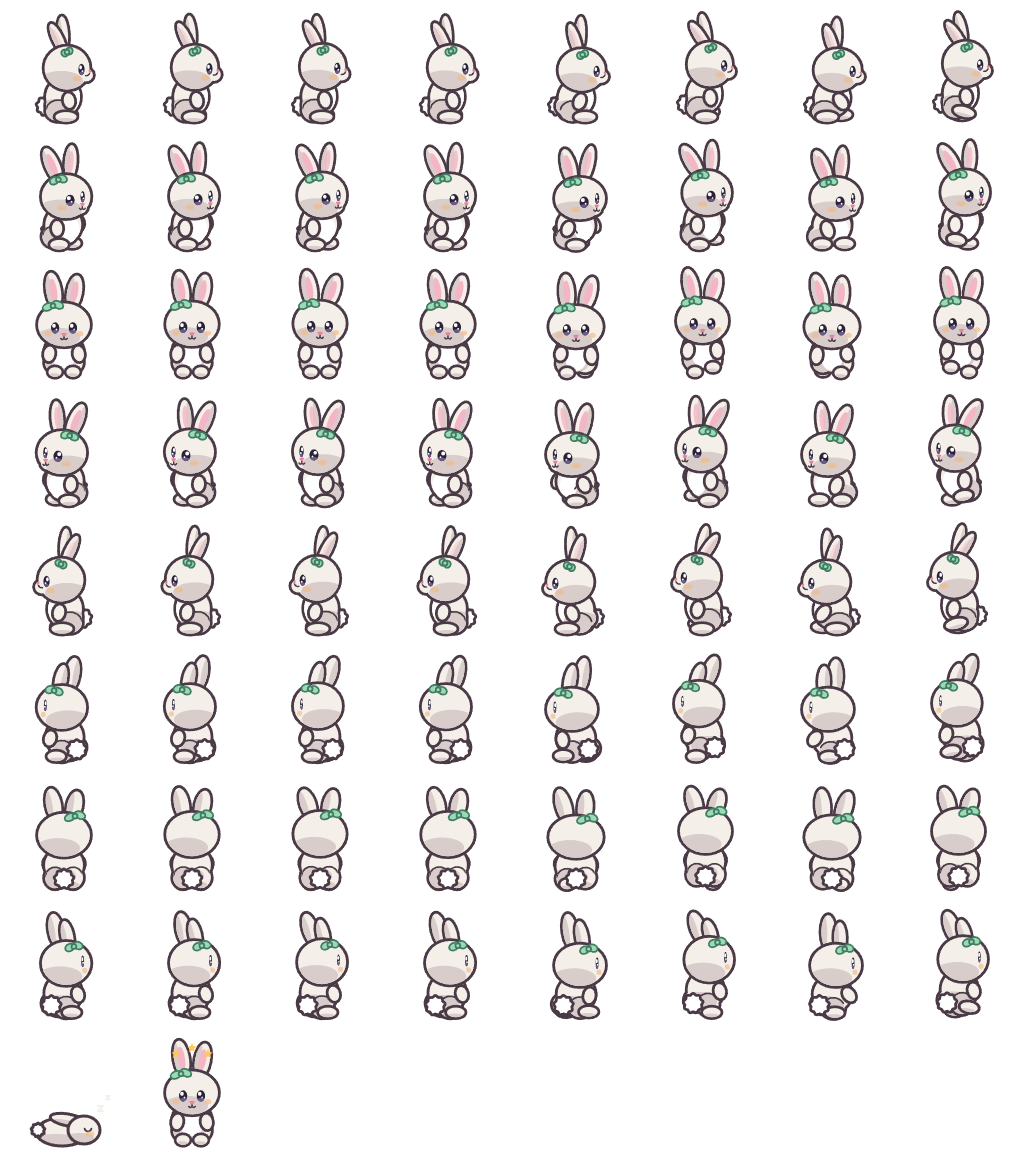
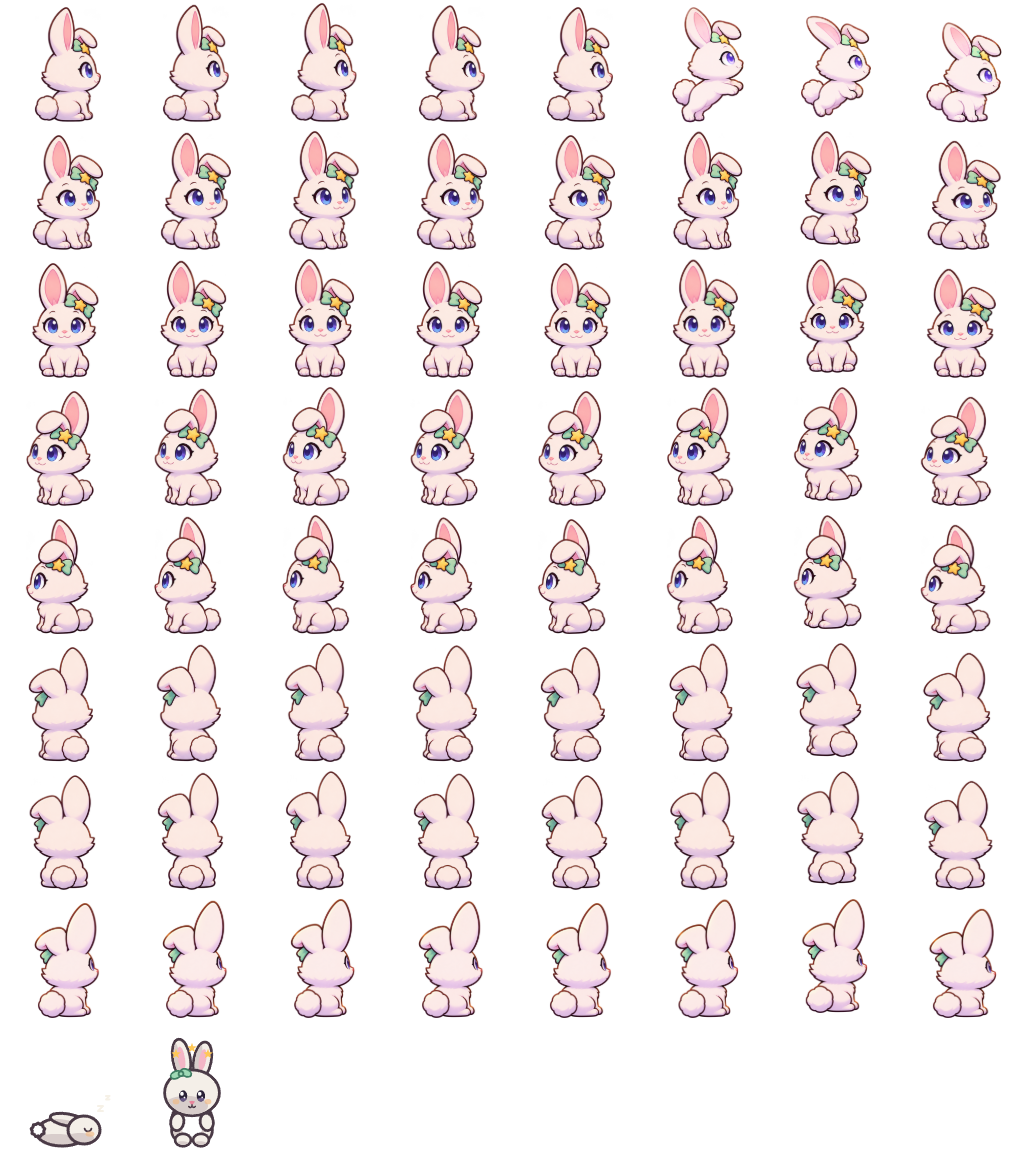
토리 ChatGPT 그림 적용: 받은 90° 걷기 4장(f01 = 대기 그림, 20px 깡충) + 정지 8방향 + 초상(대기 45°). 친구 시트 가져오기 src/art/friendSheet.ts(512 팩을 한 배율로 128 칸, 귀 끝~발끝 115px = 머리 폭이 루미와 같음), 아직 없는 걷기 방향은 임시 깡충
Claude-Session: https://claude.ai/code/session_01HrPbr5mJU6i3pPUacduwos

diff --git a/src/art/friendSheet.ts b/src/art/friendSheet.ts
@@ -1,0 +1,153 @@
+// 친구 등불지기(토리·도토) 8방향 시트를 ChatGPT 팩 그림으로 묶는다 (2026-11-18 라이언: 받은 토리 90° 걷기를 바로 적용).
+// lumi-8dir과 같은 배치(줄 = 방향 e·se·s·sw·w·nw·n·ne + 연출 줄, 칸 = 대기 4 + 걷기 4, 128 칸·발끝 FEET_Y)라
+// Lightkeeper·애니메이션 이름(tori-idle-<방향> 등)은 그대로 쓴다.
+//  - 팩 규격(브리프·의뢰서): 512×512 투명, 귀 끝 ~ 발끝 = 48 ~ 496줄, 한 팩 안에서 같은 축척.
+//    그래서 칸에 놓을 때 장마다 다시 재지 않고 캔버스 좌표를 그대로 한 배율로 옮긴다(걷기 프레임의 들썩임이 그대로 살도록).
+//  - 대기: 방향마다 한 장 + 숨쉬기 3칸(루미와 같은 방식).
+//  - 걷기: 그 방향 걷기 팩 4장(f01 = 대기 그림). 아직 안 온 방향은 대기 그림으로 만든 임시 깡충(제안) — 팩이 오면 저절로 바뀐다.
+//  - 연출 줄(잠듦·기절): 아직 팩 그림이 없어 임시 코드 그림(keeperSprites)을 그대로.
+//  - 대기 팩이 한 장이라도 없으면 null → 임시 코드 그림 시트 전체를 쓴다(도토는 팩이 올 때까지 이쪽).
+import { DIRS, type Dir } from '../systems/facing';
+import { buildKeeperSheet, type KeeperSpriteId } from './keeperSprites';
+import { CELL, FEET_Y, LUMI_COLS, packDir } from './lumiSheet';
+
+interface FriendPack {
+  /** 대기 그림 경로 (dev 서버가 프로젝트 폴더를 그대로 서빙) */
+  idle: (deg: string, name: string) => string;
+  /** 걷기 그림 경로, n = 1~4 */
+  walk: (deg: string, name: string, n: number) => string;
+  /** 팩 캔버스에서 발끝이 닿는 줄 */
+  feetY: number;
+  /** 팩 캔버스에서 귀 끝 ~ 발끝 높이 */
+  bodyH: number;
+  /**
+   * 칸(128) 안에서의 귀 끝 ~ 발끝 높이(px). 루미는 약 101px.
+   * 토리 115 = 머리 크기를 루미와 맞추고 귀가 루미 키의 약 1.14배(브리프 '귀 끝까지는 루미의 약 1.2배', 2026-11-17 측정의 ×1.22 제안)
+   */
+  heightPx: number;
+}
+
+/** 각도 → 팩의 방향 이름 (파일 이름 규칙) */
+const NAMES: Record<number, string> = {
+  0: 'front',
+  45: 'front_right',
+  90: 'right',
+  135: 'back_right',
+  180: 'back',
+  225: 'back_left',
+  270: 'left',
+  315: 'front_left',
+};
+
+const TORI_DIR = '/reference/Tori_8_Direction_Pack';
+export const FRIEND_PACKS: Partial<Record<KeeperSpriteId, FriendPack>> = {
+  tori: {
+    idle: (deg, name) => `${TORI_DIR}/Tori_Idle_8D_Pack/tori_idle_${deg}_${name}.png`,
+    walk: (deg, name, n) => `${TORI_DIR}/Tori_Walk_8D_4Frames_Pack/${deg}_${name}/tori_walk_${deg}_${name}_f0${n}.png`,
+    feetY: 496,
+    bodyH: 448,
+    heightPx: 115,
+  },
+};
+
+/** 칸에 놓는 법: 발끝 기준 늘이기·들기 (단위 = 칸 px) */
+interface Pose {
+  sx?: number;
+  sy?: number;
+  lift?: number;
+}
+
+/** 숨쉬기 4칸 (루미 breathe와 같은 값) */
+const BREATHE: Pose[] = [{}, { sx: 0.995, sy: 1.02 }, { sx: 0.99, sy: 1.035 }, { sx: 0.995, sy: 1.015 }];
+/** 걷기 팩이 아직 없는 방향의 임시 깡충 (제안): 모음 → 박차기 → 공중 → 착지. 귀 끝이 칸(위 7px 여유) 밖으로 나가지 않는 만큼만 늘이고 든다 */
+const HOP: Pose[] = [{}, { sx: 0.98, sy: 1.03 }, { sx: 1.01, sy: 0.99, lift: 5 }, { sx: 1.04, sy: 0.95 }];
+
+function loadImage(url: string): Promise<HTMLImageElement | null> {
+  return new Promise((resolve) => {
+    const img = new Image();
+    img.onload = () => resolve(img);
+    img.onerror = () => resolve(null);
+    img.src = url;
+  });
+}
+
+/** 발 가운데 x: 불투명 범위 아래 15% 줄의 평균 (cutout.feetCenterX와 같은 생각) */
+function feetX(img: HTMLImageElement): number {
+  const c = document.createElement('canvas');
+  c.width = img.naturalWidth;
+  c.height = img.naturalHeight;
+  const g = c.getContext('2d', { willReadFrequently: true }) as CanvasRenderingContext2D;
+  g.drawImage(img, 0, 0);
+  const { data, width, height } = g.getImageData(0, 0, c.width, c.height);
+  let top = -1;
+  let bottom = -1;
+  for (let y = 0; y < height && top < 0; y++) for (let x = 0; x < width; x++) if (data[(y * width + x) * 4 + 3] > 40) { top = y; break; }
+  for (let y = height - 1; y >= 0 && bottom < 0; y--) for (let x = 0; x < width; x++) if (data[(y * width + x) * 4 + 3] > 40) { bottom = y; break; }
+  if (top < 0) return width / 2;
+  let sum = 0;
+  let n = 0;
+  for (let y = Math.floor(bottom - (bottom - top) * 0.15); y <= bottom; y++) {
+    for (let x = 0; x < width; x++) {
+      if (data[(y * width + x) * 4 + 3] > 40) {
+        sum += x;
+        n++;
+      }
+    }
+  }
+  return n ? sum / n : width / 2;
+}
+
+/** 팩 그림 한 장을 칸(col,row)에: 팩 좌표 (fx, feetY)가 칸의 (가운데, FEET_Y)에 오게, 배율 s, 발끝 기준 pose */
+function place(g: CanvasRenderingContext2D, img: HTMLImageElement, col: number, row: number, fx: number, pack: FriendPack, s: number, p: Pose = {}): void {
+  g.save();
+  g.beginPath();
+  g.rect(col * CELL, row * CELL, CELL, CELL);
+  g.clip();
+  g.translate(col * CELL + CELL / 2, row * CELL + FEET_Y - (p.lift ?? 0));
+  g.scale(p.sx ?? 1, p.sy ?? 1);
+  g.drawImage(img, -fx * s, -pack.feetY * s, img.naturalWidth * s, img.naturalHeight * s);
+  g.restore();
+}
+
+/** 2배 해상도(128 칸) 시트. 대기 팩이 다 없으면 null */
+export async function composeFriend(id: KeeperSpriteId): Promise<HTMLCanvasElement | null> {
+  const pack = FRIEND_PACKS[id];
+  if (!pack) return null;
+  const s = pack.heightPx / pack.bodyH;
+  const idle = new Map<Dir, HTMLImageElement>();
+  const walk = new Map<Dir, HTMLImageElement[]>();
+  for (const [deg, name] of Object.entries(NAMES)) {
+    const a = deg.padStart(3, '0');
+    const dir = packDir(Number(deg));
+    const img = await loadImage(pack.idle(a, name));
+    if (!img) return null;
+    idle.set(dir, img);
+    const frames = await Promise.all([1, 2, 3, 4].map((n) => loadImage(pack.walk(a, name, n))));
+    if (frames.every((f): f is HTMLImageElement => f !== null)) walk.set(dir, frames as HTMLImageElement[]);
+  }
+
+  // 연출 줄은 임시 코드 그림 시트에서 그대로 옮긴다
+  const code = await buildKeeperSheet(id);
+  const c = document.createElement('canvas');
+  c.width = code.width;
+  c.height = code.height;
+  const g = c.getContext('2d') as CanvasRenderingContext2D;
+  g.imageSmoothingEnabled = true;
+  g.imageSmoothingQuality = 'high';
+  g.drawImage(code, 0, DIRS.length * CELL, code.width, CELL, 0, DIRS.length * CELL, code.width, CELL);
+
+  for (const [row, d] of DIRS.entries()) {
+    const img = idle.get(d) as HTMLImageElement;
+    // 한 방향 안의 대기·걷기는 같은 발 가운데(대기 그림 기준)에 둔다 → 걷기 프레임의 앞뒤 움직임이 그대로 보인다
+    const fx = feetX(img);
+    for (let i = 0; i < LUMI_COLS.idle; i++) place(g, img, i, row, fx, pack, s, BREATHE[i % BREATHE.length]);
+    const frames = walk.get(d);
+    for (let i = 0; i < LUMI_COLS.walk; i++) {
+      const col = LUMI_COLS.idle + i;
+      if (frames) place(g, frames[i % frames.length], col, row, fx, pack, s);
+      else place(g, img, col, row, fx, pack, s, HOP[i % HOP.length]);
+    }
+  }
+  return c;
+}
+

diff --git a/src/art/registry.ts b/src/art/registry.ts
@@ -28,6 +28,7 @@ import { DIRS } from '../systems/facing';
 import { CREATURES, creatureAnims, creatureKey, drawCreature, type CreatureId } from './creatures';
 import { DARK_ORB, ITEM_ICON, ITEM_IDS, ITEM_LABEL, drawDarkOrb, drawItemIcon, itemKey } from './items';
 import { buildKeeperSheet, drawKeeperSpriteFrame, keeperAnims } from './keeperSprites';
+import { FRIEND_PACKS, composeFriend } from './friendSheet';
 
 export type AssetCategory = 'characters' | 'enemies' | 'objects' | 'effects' | 'backgrounds' | 'items';
 
@@ -166,17 +167,18 @@ const characters: SheetDef[] = [
     buildRes: 2,
   },
   // 2026-11-13 컨셉 시연판: 토리·도토 플레이용 8방향 시트 (임시 코드 그림, lumi-8dir과 같은 줄·칸·애니메이션 이름 규칙)
+  // 2026-11-18: ChatGPT 팩이 있으면 그 그림으로(src/art/friendSheet.ts — 토리 대기 8방향 + 받은 방향의 걷기), 없으면 임시 코드 그림
   ...(['tori', 'doto'] as const).map(
     (id): SheetDef => ({
       key: `${id}-8dir`,
       category: 'characters',
-      label: `${GameData.characters.find((c) => c.id === id)?.name ?? id} 8방향 (임시 그림: 정지·걷기 + 넉아웃·기절)`,
+      label: `${GameData.characters.find((c) => c.id === id)?.name ?? id} 8방향 (${FRIEND_PACKS[id] ? 'ChatGPT 팩: 정지 8방향 + 받은 방향의 걷기, 나머지 걷기·넉아웃·기절은 임시' : '임시 그림: 정지·걷기 + 넉아웃·기절'})`,
       frameWidth: 64,
       frameHeight: 64,
       frames: LUMI_COLUMNS * LUMI_ROWS,
       draw: (ctx, f) => drawKeeperSpriteFrame(ctx, id, f),
       anims: keeperAnims(id),
-      build: () => buildKeeperSheet(id),
+      build: async () => (await composeFriend(id)) ?? buildKeeperSheet(id),
       buildRes: 2,
     }),
   ),

diff --git a/CLAUDE.md b/CLAUDE.md
@@ -117,7 +117,7 @@ UI는 한국어, 코드 식별자는 영어 id.
   - 상징: 루미 = 별(보내는 빛), 토리 = 달(비추는 빛, 달토끼), 도토 = 씨앗(심는 빛).
   - 공통 표식: 셋 다 작은 호박빛 별 조각을 단다. 루미는 스카프의 별, 토리는 민트 리본 매듭의 별, 도토는 황금 도토리에 박힌 별이다.
 - **성격 (캐릭터 브리프, 제안)**: 루미는 조용하지만 용감하게 앞장선다. 토리는 겁이 많지만 날쌔고 다정하다. 도토는 느긋하고 꼼꼼한 마을 살림꾼이다.
-- **외형 기준**: `hand-offs/chatgpt-characters-*/`의 브리프와 ChatGPT 컨셉 그림(`reference/Tori_8_Direction_Pack/`·`reference/Doto_8_Direction_Pack/`의 `*_Concept_Introduce`)이다. **토리는 좌우가 다르다**: 접힌 귀와 민트 리본 = 토리 자신의 왼쪽 귀(정면 그림에서 보는 사람의 오른쪽) → 친구 스프라이트를 가져올 때 토리의 왼쪽 방향은 오른쪽 그림을 뒤집지 않고 팩의 왼쪽 그림을 쓴다(2026-11-17). 토리 대기 팩은 512×512·발끝 97%이고 캔버스 안에서 루미보다 작게 그려져 게임에서 ×1.22로 보인다(제안). **친구 걷기는 방향마다 4장, 첫 장 = 그 방향의 대기 그림 그대로, 4장이 한 바퀴로 이어진다(2026-11-18 라이언)** — 토리는 제자리 작은 깡충 뛰기(제안, 의뢰서 `order-tori-walk.md`). 도토 대기 8방향은 `order-doto-idle.md`(기본 그림 = `doto_concept.png`, 루미·토리와 같은 512 형식, 한 축척·몸 가운데·뒤집기 허용). 135°는 2026-11-18 다시 그린 그림(1254로 옴)을 이 규격으로 맞춰 넣었다 — ChatGPT 그림이 다른 크기로 오면 Claude가 귀 끝~발끝을 48~495줄·가로 가운데로 맞춘다(받은 원본은 `Tori_Idle_8D_Originals/`).
+- **외형 기준**: `hand-offs/chatgpt-characters-*/`의 브리프와 ChatGPT 컨셉 그림(`reference/Tori_8_Direction_Pack/`·`reference/Doto_8_Direction_Pack/`의 `*_Concept_Introduce`)이다. **토리는 좌우가 다르다**: 접힌 귀와 민트 리본 = 토리 자신의 왼쪽 귀(정면 그림에서 보는 사람의 오른쪽) → 친구 스프라이트를 가져올 때 토리의 왼쪽 방향은 오른쪽 그림을 뒤집지 않고 팩의 왼쪽 그림을 쓴다(2026-11-17). 토리 대기 팩은 512×512·발끝 97%이고 캔버스 안에서 루미보다 작게 그려져, 게임에서는 귀 끝~발끝 115px로 놓는다(루미 약 101px — 머리 폭이 루미와 같고 귀까지 1.14배, 2026-11-18 적용, 제안 — `src/art/friendSheet.ts heightPx`). **친구 걷기는 방향마다 4장, 첫 장 = 그 방향의 대기 그림 그대로, 4장이 한 바퀴로 이어진다(2026-11-18 라이언)** — 토리는 제자리 작은 깡충 뛰기(제안, 의뢰서 `order-tori-walk.md`). 도토 대기 8방향은 `order-doto-idle.md`(기본 그림 = `doto_concept.png`, 루미·토리와 같은 512 형식, 한 축척·몸 가운데·뒤집기 허용). 135°는 2026-11-18 다시 그린 그림(1254로 옴)을 이 규격으로 맞춰 넣었다 — ChatGPT 그림이 다른 크기로 오면 Claude가 귀 끝~발끝을 48~495줄·가로 가운데로 맞춘다(받은 원본은 `Tori_Idle_8D_Originals/`).
 - **구출 예외 (2026-11-17)**: 고른 주인공이 그 판의 구출 친구 자신이면 빛을 잃은 친구가 나오지 않는다(`rescueFor`). 전에는 토리로 2스테이지를 하면 토리가 토리를 구했다.
 
 | 적 | 무리 `kind` | id | 상태 |
@@ -153,7 +153,7 @@ UI는 한국어, 코드 식별자는 영어 id.
     - **외형 변경 금지**: Claude는 캐릭터 외형을 임의로 재해석하거나 정해진 그림을 바꾸지 않는다. 바꿀 때는 라이언의 승인을 받는다.
     - **Claude의 몫**: 필요한 규격과 주문서(`hand-offs/chatgpt-*`), 가져오기 도구를 만든다.
     - **교체**: ChatGPT 그림이 오면 같은 키로 바꾼다.
-  - 지금 임시 그림: 중앙 광원 토템 `central-source`(밝음·약함·꺼짐), 개구리 `frog-dark`·`frog-true`, 등불 스테이션 = `lantern` 시트를 바닥에(1.5배, 2026-11-13), 토리(흰 토끼·민트 리본)·도토(붉은 갈색 다람쥐·복슬한 꼬리·황금 도토리) 초상과 그 빛을 잃은 모습(`src/art/friends.ts`).
+  - 지금 임시 그림: 중앙 광원 토템 `central-source`(밝음·약함·꺼짐), 개구리 `frog-dark`·`frog-true`, 등불 스테이션 = `lantern` 시트를 바닥에(1.5배, 2026-11-13), 도토(붉은 갈색 다람쥐·복슬한 꼬리·황금 도토리)의 초상·8방향 시트, 토리·도토의 빛을 잃은 모습(`src/art/friends.ts`·`keeperSprites.ts`). **토리는 2026-11-18부터 ChatGPT 그림**: 정지 8방향·초상(대기 45°) = 대기 팩, 걷기 = 받은 방향의 걷기 팩(지금 90° 오른쪽만 — 나머지 방향은 대기 그림을 늘이고 드는 임시 깡충), 잠듦·기절 = 아직 임시 코드 그림(`src/art/friendSheet.ts`, 팩 파일이 늘면 `npm run assets`만 다시).
   - **움직임 그림 (2026-11-13 라이언: 모든 생명이 어색하지 않게, 루미 참고)**: 토리·도토 = 루미와 같은 8방향(앞·앞 3/4·옆·뒤 3/4·뒤, 왼쪽은 뒤집기) × 정지 4칸·걷기 4칸(`keeperSprites.ts`). 걷는 적·주민(늑대·고슴도치·레서판다·올빼미·개구리) = 옆·앞·뒤 × 4칸 걸음(칸 = 방향×4+걸음, 이동 방향으로 고름 `systems/critterView.ts`), 나는 종(박쥐·뱀파이어·나방·반딧불이) = 4칸 날갯짓, 노월 = 대기 4칸·시전 2칸(구슬·소환 때)·진정 1칸(`creatures.ts`·`enemies.ts`·`critterKit.ts`). 판이 끝나면 등불지기는 정면 정지, 일시정지 중엔 애니메이션도 멈춤.
   - 조준 = 밝은 노랑 50% 원뿔(선 없음, 반지름만 끈 거리에 비례), 발사 = 별이 원뿔 안으로.
 - 콘셉트 "어두운 밤, 따뜻한 빛". 알약형 버튼(주요 호박 채움 + 아이콘 / 보조는 어두운 바탕에 밝은 테두리, 최소 48×48), 폰트 Pretendard → Noto Sans KR.
@@ -234,6 +234,7 @@ UI는 한국어, 코드 식별자는 영어 id.
 - **루미 시트 자르기**: `npm run art:lumi`가 `reference/LUMI-sprites` 시트와 8방향 대기·걷기 팩을 `art-src/lumi/`로 맞추고(`src/art/lumiSheet.ts`), `npm run art:import`가 `lumi-8dir` 시트로 묶는다.
 - **스킬·기획 갱신**: `npm run doc:skill`(스킬 데이터 복사·동기화 사본·zip — zip은 Node로 직접 만든다: PowerShell Compress-Archive는 경로를 역슬래시로 적어 claude.ai가 "invalid characters"로 거절, 2026-11-13), `npm run doc:plan`(지시가 올 때만). PDF 글자 확인은 `pdfjs-dist`(Python·poppler 없음).
 - 에셋을 고치면 `npm run assets`(포트 5179 임시 Vite + 헤드리스 렌더링). 시트 모음 미리보기는 dev 서버의 `/assets.html`. 없어진 키의 옛 PNG는 직접 지운다.
+- **친구 팩 넣기 (2026-11-18)**: 토리(도토도 같은 규칙) 팩 그림을 `reference/Tori_8_Direction_Pack/Tori_Idle_8D_Pack/tori_idle_<각도>_<이름>.png`·`Tori_Walk_8D_4Frames_Pack/<각도>_<이름>/tori_walk_<각도>_<이름>_f01~04.png`에 두고 `npm run assets` → `tori-8dir` 시트(`src/art/friendSheet.ts`: 512 캔버스를 한 배율로 128 칸에, 한 방향의 걷기는 대기 그림의 발 가운데 기준). 초상은 대기 45°를 `art-src/characters/portrait-tori.png`로 복사. 받은 그림은 먼저 규격(512·발끝 496·f01 = 대기 그림·리본 귀)을 잰다.
 - **ChatGPT 그림 넣기**(선택 — 기본은 Claude 임시 그림): `docs/art-order.md`대로 만든 PNG를 `art-src/<분류>/<키>.png`에 넣고 `npm run art:import`(규격 `src/art/registry.ts`, 배경 지우기 `src/art/cutout.ts`).
 - dev 서버: `npm run dev`(포트 5173). 개발 모드에서만 `window.__game`.
 - 셸 주의: 따옴표·백틱이 섞인 긴 편집은 bash heredoc이 깨질 수 있다 → 편집 스크립트는 파일로 만들어 `node`로 돌린다.
@@ -334,6 +335,7 @@ UI는 한국어, 코드 식별자는 영어 id.
   - 첫 적용 — 받은 토리 대기 8장 점검(`sketches/tori-idle-check-26-1117-2306/`): 크기·발끝·가운데·투명은 맞음. `tori_idle_135_back_right.png` 한 장만 리본·접힌 귀가 반대쪽 귀(225°를 뒤집은 모습).
   - 원인은 브리프 — '왼쪽 3방향은 뒤집기' 규칙과 기준이 섞인 좌우 표현. 브리프·기준 사실서를 고침: 접힌 귀와 리본 = 토리 자신의 왼쪽 귀, 토리는 뒤집지 않음, 걷기 팩은 대기 팩과 같은 캔버스·축척·발끝. 135° 고치기 영문 프롬프트를 더함.
   - 크기: 토리가 캔버스 안에서 루미보다 작게 그려짐(같은 칸이면 머리 폭 82%) → 다시 그리지 않고 게임에서 토리를 ×1.22로 보이게(제안, 친구 가져오기 도구를 만들 때 적용).
+- 2026-11-18 · 받은 토리 90° 걷기 4장(`tori_walk_090_right_4frames.zip`)을 바로 적용해 트라이얼에서 확인(라이언). 점검: 512×512, f01 = 대기 90° 그림과 픽셀까지 같음, f03에서 20px 떠오름, 몸 가운데 제자리, 리본 귀 맞음. 친구 시트 가져오기(`src/art/friendSheet.ts`)를 만들어 토리 정지 8방향·90° 걷기·초상을 ChatGPT 그림으로 바꿈, 나머지 걷기는 임시 깡충(제안). 크기 = 귀 끝~발끝 115px(머리 폭이 루미와 같음, 4절).
 - 2026-11-18 · ChatGPT 의뢰 자료를 바탕화면 `file_station_for_ryan`에(4절 외형 기준): 토리 8방위 걷기(한 방위 4장, 첫 장 = 정지 그림 그대로, 자연스럽게 한 사이클 — 라이언) · 도토 8방위 정지(루미·토리처럼 작동, 기본 그림 = `doto_concept.png`, Claude가 직접 그리지 않고 ChatGPT에 의뢰 — 라이언). 의뢰서·안내 그림은 `hand-offs/chatgpt-characters-26-1118-1334/`(`order-tori-walk.md`·`order-doto-idle.md`). 토리 움직임 = 제자리 작은 깡충 뛰기(제안). 브리프의 옛 규격(256 캔버스·고양이 걸음 순서)을 512·'첫 장 = 대기 그림'으로 고침.
 - 2026-11-18 · 홈 > 테스트 > 트라이얼에서 루미·토리·도토를 골라 해 볼 수 있게(2·5절): 트라이얼 줄 오른쪽에 세 등불지기 칸, 누르면 그 등불지기로 바로 시작(잠긴 친구도). 고른 등불지기는 그 테스트 판에서만, 선택 화면 등불지기와 진행 저장은 그대로.
 - 2026-11-18 · 다시 그린 토리 135°(바탕화면 'Fluffy Bunny with Mint Bow.png')를 대기 팩에 적용하고 이름·경로를 정리(4절 외형 기준).

diff --git a/docs/skill/light-defense-game/references/visual-audio.md b/docs/skill/light-defense-game/references/visual-audio.md
@@ -3,7 +3,7 @@
 > **2026-11-12 새 기획 개정 요약 (아래 본문보다 우선)**
 > - 루미는 **등불을 들지 않는다**(스스로 빛을 쏨). 빛 고임은 루미 주변(LP 비례)·중앙 광원(광도 비례)·켜진 등불 세 가지이고, 맵 전체 광도(`systems/villageMood.ts MapLight`)가 켜진 마을 드러남과 어둠 덮개를 정한다(옛 '마을 분위기' 절을 대체).
 > - **HUD**: 위 한 줄은 그대로(달·밤 mm:ss·진행 바에 한밤중·클라이맥스 눈금·점수·콤보). 아래 = 하트 3개 + HP 막대 · 빛(LP) 막대 · 중앙 광원 광도 막대 · 켠 등불 수 · 일시정지. 불꽃 5개·시너지 게이지·장착물 칸은 없앴다. 꺼진 등불·위험한 광원·빛을 잃은 친구는 노란 화살표(화면 밖이면 가장자리, 화면 안이면 그 위, 2026-11-13). HP·LP 막대 앞에 'HP'·'LP' 글자(LP는 별 아이콘 자리, 2026-11-13). 판이 끝나면(아침·튜토리얼 끝) 등불지기는 정면 정지 자세, 일시정지 중엔 애니메이션도 멈춤.
-> - 새 임시 코드 그림: 중앙 광원 토템 `central-source`(밝음·약함·꺼짐), 개구리 `frog-dark`·`frog-true`, 등불 스테이션 = `lantern` 시트를 바닥에(+ 광도 게이지). 도토 초상은 다람쥐(붉은 갈색, 복슬한 꼬리).
+> - 새 임시 코드 그림: 중앙 광원 토템 `central-source`(밝음·약함·꺼짐), 개구리 `frog-dark`·`frog-true`, 등불 스테이션 = `lantern` 시트를 바닥에(+ 광도 게이지). 도토 초상은 다람쥐(붉은 갈색, 복슬한 꼬리). **토리는 2026-11-18부터 ChatGPT 그림**(정지 8방향·초상·받은 방향의 걷기 — `src/art/friendSheet.ts`, 팩은 `reference/Tori_8_Direction_Pack/`, 아직 없는 걷기 방향은 대기 그림으로 만든 임시 깡충, 게임 속 키 귀 끝~발끝 115px = 머리 폭이 루미와 같음).
 > - 적의 퇴장: 잃어버린 주민 = 제 모습(fx-return)으로 광원 쪽 귀환, 호스틸 = 빛 반대쪽으로 날아가 사라짐. 패시브는 위협적이지 않게, 빛을 피하는 몸짓.
 > - 사운드(새 기획): BGM 홈·플레잉·상점·튜토리얼, 효과음 조준(끌기)·발사·아이템·클리어·게임 오버·적 다운, 진동. 레퍼런스에 Stray·OneShot(분위기·색감), Cult of the Lamb(2.5D·지면 재질) 추가. 새 기획은 색 미정 → 기존 10색 팔레트 유지.
 > - 2026-11-13 보강: 모든 생명이 루미처럼 움직임 — 토리·도토 8방향 × 정지·걷기 4칸, 걷는 적·주민 옆·앞·뒤 × 걸음 4칸(`systems/critterView.ts`로 방향 고름), 나는 종 날갯짓 4칸, 노월 대기·시전·진정. 중앙 광원 = 세 단 돌 제단 + 금 간 큰 결정(176×236). 배경음 = D장조의 은은한 곡(OneShot 분위기 참고, 오르골 선율은 새로 지음, Dmaj9 → A/C# → Bm7 → F#m7 → Gmaj7 → D/F# → Em7 → A7). 장애물(오두막·담·기둥·광원 등) 뒤에 등불지기가 있으면 그 물체가 반투명(`entities/Occluders.ts`). HUD 막대 이름은 HP·LP만(광원 막대는 결정 아이콘 그대로 — 라이언 2026-11-13), 노란 화살표.
